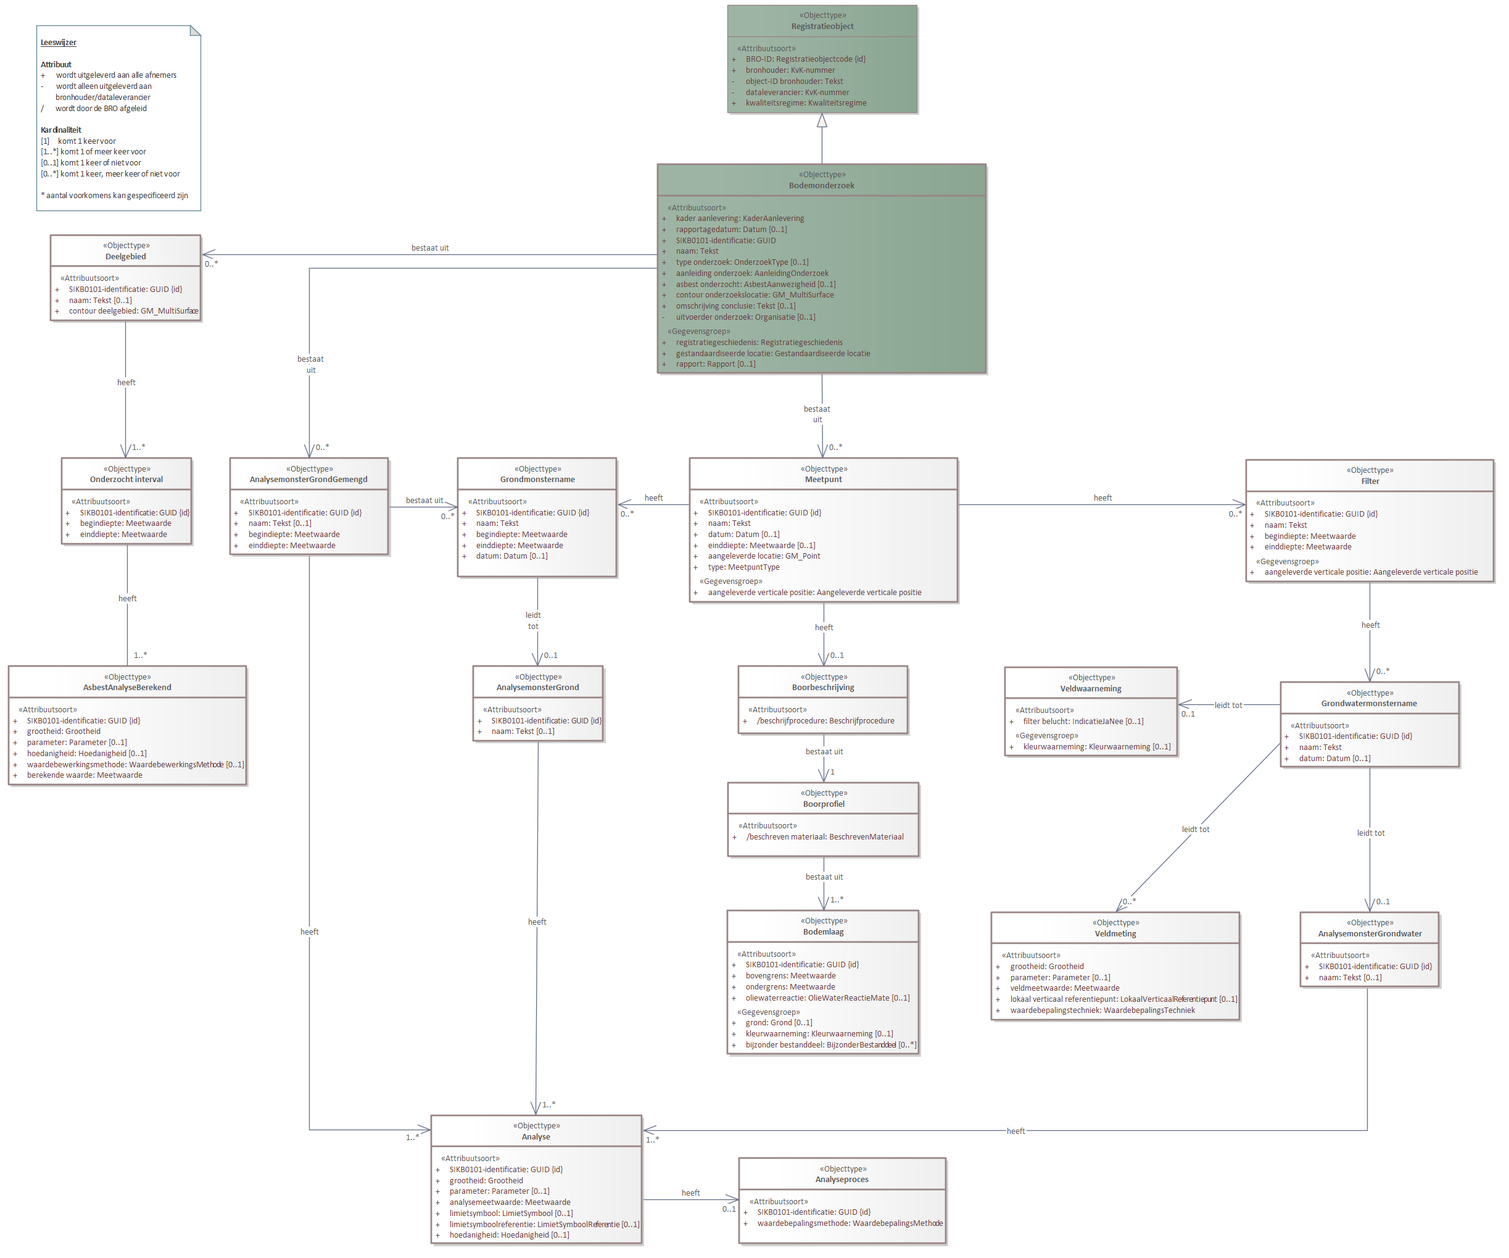
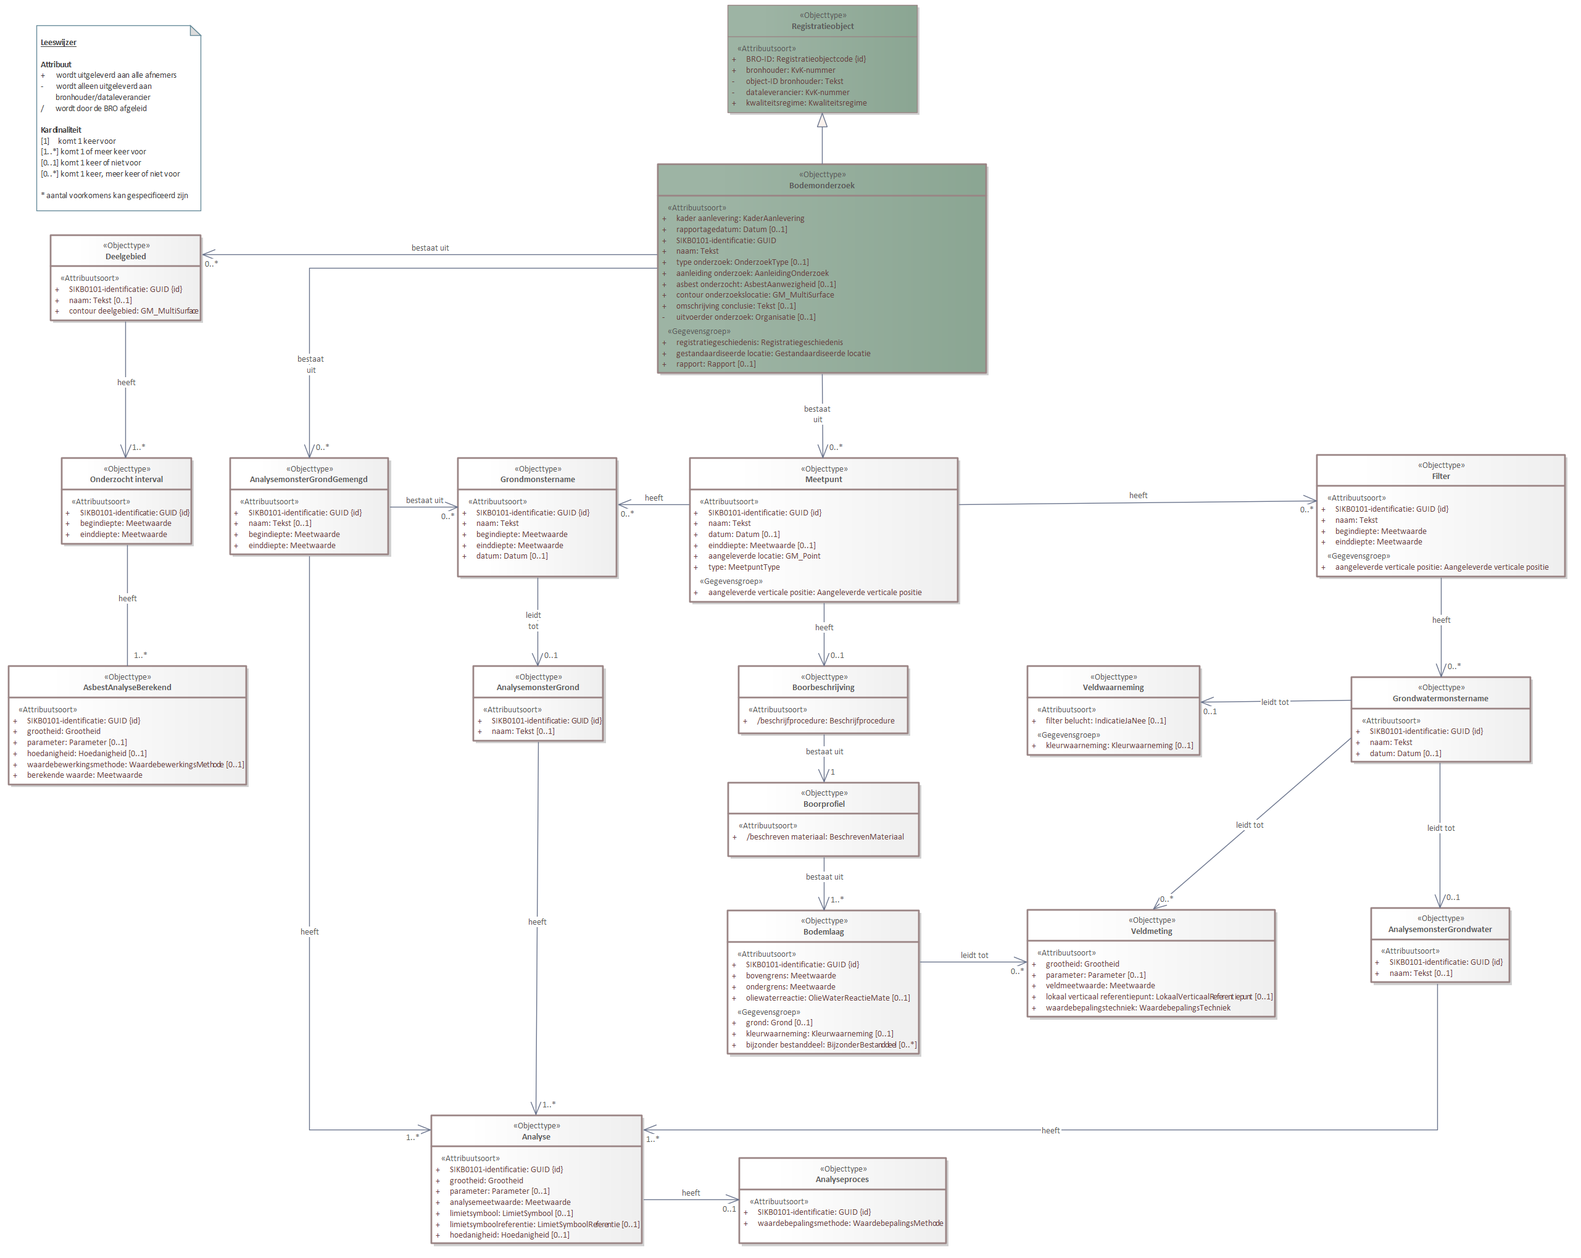
Conceptualmodel-MilieuhygienischbodemonderzoekSAD-0.99-1-20231205-20240109-140355

diff --git a/data/SAD-cat.msword.html b/data/SAD-cat.msword.html
@@ -15,7 +15,7 @@
    <body>
       <p>Conceptual model/Milieuhygienisch bodemonderzoek SAD/20231205</p>
       <p>Imvertor: Nightly-build.13</p>
-      <p>Model release: Conceptualmodel-MilieuhygienischbodemonderzoekSAD-0.99-1-20231205-20240109-124140</p>
+      <p>Model release: Conceptualmodel-MilieuhygienischbodemonderzoekSAD-0.99-1-20231205-20240109-140355</p>
       <hr>
       <section>
          <h1>Artikel 1 Definitie van registratieobject, entiteiten en attributen</h1>
@@ -66,7 +66,7 @@
          <section>
             <h2>Het domeinmodel</h2>
             <section>
-               <div class="imageinfo overview"><img src="Images/EAID_FABA90F8_223C_433d_BAE3_74F87B3DC220.png" usemap="#imagemap-EAID_FABA90F8_223C_433d_BAE3_74F87B3DC220" alt="Diagram &#xA;                        &#xA;                     "><map name="imagemap-EAID_FABA90F8_223C_433d_BAE3_74F87B3DC220"><area shape="rect" alt="AsbestAnalyseBerekend" coords="14,1079,400,1272" href="#global_class_Model_AsbestAnalyseBerekend"><area shape="rect" alt="Onderzocht interval" coords="100,742,311,882" href="#global_class_Model_Onderzochtinterval"><area shape="rect" alt="Deelgebied" coords="82,381,326,520" href="#global_class_Model_Deelgebied"><area shape="rect" alt="Analyseproces" coords="1198,1876,1534,2015" href="#global_class_Model_Analyseproces"><area shape="rect" alt="Analyse" coords="699,1807,1041,2015" href="#global_class_Model_Analyse"><area shape="rect" alt="AnalysemonsterGrondwater" coords="2108,1478,2333,1599" href="#global_class_Model_AnalysemonsterGrondwater"><area shape="rect" alt="AnalysemonsterGrond" coords="767,1079,978,1201" href="#global_class_Model_AnalysemonsterGrond"><area shape="rect" alt="Boorprofiel" coords="1180,1268,1490,1388" href="#global_class_Model_Boorprofiel"><area shape="rect" alt="Boorbeschrijving" coords="1197,1079,1472,1189" href="#global_class_Model_Boorbeschrijving"><area shape="rect" alt="Veldmeting" coords="1607,1478,2010,1653" href="#global_class_Model_Veldmeting"><area shape="rect" alt="Veldwaarneming" coords="1629,1081,1909,1225" href="#global_class_Model_Veldwaarneming"><area shape="rect" alt="AnalysemonsterGrondGemengd" coords="373,742,630,899" href="#global_class_Model_AnalysemonsterGrondGemengd"><area shape="rect" alt="Grondwatermonstername" coords="2076,1105,2366,1243" href="#global_class_Model_Grondwatermonstername"><area shape="rect" alt="Grondmonstername" coords="742,742,1000,935" href="#global_class_Model_Grondmonstername"><area shape="rect" alt="Filter" coords="2020,745,2422,943" href="#global_class_Model_Filter"><area shape="rect" alt="Bodemlaag" coords="1179,1475,1490,1708" href="#global_class_Model_Bodemlaag"><area shape="rect" alt="Meetpunt" coords="1118,742,1553,976" href="#global_class_Model_Meetpunt"><area shape="rect" alt="Registratieobject" coords="1179,8,1487,183" href="#global_class_Model_Registratieobject"><area shape="rect" alt="Bodemonderzoek" coords="1066,266,1599,605" href="#global_class_Model_Bodemonderzoek"></map><p><b>Domeinmodel milieuhygienisch bodemonderzoek</b></p>
+               <div class="imageinfo overview"><img src="Images/EAID_FABA90F8_223C_433d_BAE3_74F87B3DC220.png" usemap="#imagemap-EAID_FABA90F8_223C_433d_BAE3_74F87B3DC220" alt="Diagram &#xA;                        &#xA;                     "><map name="imagemap-EAID_FABA90F8_223C_433d_BAE3_74F87B3DC220"><area shape="rect" alt="AsbestAnalyseBerekend" coords="14,1079,400,1272" href="#global_class_Model_AsbestAnalyseBerekend"><area shape="rect" alt="Onderzocht interval" coords="100,742,311,882" href="#global_class_Model_Onderzochtinterval"><area shape="rect" alt="Deelgebied" coords="82,381,326,520" href="#global_class_Model_Deelgebied"><area shape="rect" alt="Analyseproces" coords="1198,1876,1534,2015" href="#global_class_Model_Analyseproces"><area shape="rect" alt="Analyse" coords="699,1807,1041,2015" href="#global_class_Model_Analyse"><area shape="rect" alt="AnalysemonsterGrondwater" coords="2222,1471,2447,1592" href="#global_class_Model_AnalysemonsterGrondwater"><area shape="rect" alt="AnalysemonsterGrond" coords="767,1079,978,1201" href="#global_class_Model_AnalysemonsterGrond"><area shape="rect" alt="Boorprofiel" coords="1180,1268,1490,1388" href="#global_class_Model_Boorprofiel"><area shape="rect" alt="Boorbeschrijving" coords="1197,1079,1472,1189" href="#global_class_Model_Boorbeschrijving"><area shape="rect" alt="Veldmeting" coords="1665,1474,2067,1648" href="#global_class_Model_Veldmeting"><area shape="rect" alt="Veldwaarneming" coords="1665,1079,1945,1224" href="#global_class_Model_Veldwaarneming"><area shape="rect" alt="AnalysemonsterGrondGemengd" coords="373,742,630,899" href="#global_class_Model_AnalysemonsterGrondGemengd"><area shape="rect" alt="Grondwatermonstername" coords="2190,1097,2481,1235" href="#global_class_Model_Grondwatermonstername"><area shape="rect" alt="Grondmonstername" coords="742,742,1000,935" href="#global_class_Model_Grondmonstername"><area shape="rect" alt="Filter" coords="2134,737,2537,935" href="#global_class_Model_Filter"><area shape="rect" alt="Bodemlaag" coords="1179,1475,1490,1708" href="#global_class_Model_Bodemlaag"><area shape="rect" alt="Meetpunt" coords="1118,742,1553,976" href="#global_class_Model_Meetpunt"><area shape="rect" alt="Registratieobject" coords="1179,8,1487,183" href="#global_class_Model_Registratieobject"><area shape="rect" alt="Bodemonderzoek" coords="1066,266,1599,605" href="#global_class_Model_Bodemonderzoek"></map><p><b>Domeinmodel milieuhygienisch bodemonderzoek</b></p>
                </div>
             </section>
          </section>
@@ -925,7 +925,7 @@
                         </tbody>
                      </table>
                      </section>
-                  <section id="detail_d107192e4870">
+                  <section id="detail_d107499e4870">
                      <h4>  registratiegeschiedenis</h4>
                      <table style="width: 100%;">
                         <colgroup style="width: 30%;"></colgroup>
@@ -972,7 +972,7 @@
                         </tbody>
                      </table>
                   </section>
-                  <section id="detail_d107192e5098">
+                  <section id="detail_d107499e5098">
                      <h4>  gestandaardiseerde locatie</h4>
                      <table style="width: 100%;">
                         <colgroup style="width: 30%;"></colgroup>
@@ -1017,7 +1017,7 @@
                         </tbody>
                      </table>
                   </section>
-                  <section id="detail_d107192e5326">
+                  <section id="detail_d107499e5326">
                      <h4>  rapport</h4>
                      <table style="width: 100%;">
                         <colgroup style="width: 30%;"></colgroup>
@@ -2466,7 +2466,7 @@
                         </tbody>
                      </table>
                      </section>
-                  <section id="detail_d107192e10790">
+                  <section id="detail_d107499e10790">
                      <h4>  aangeleverde verticale positie</h4>
                      <table style="width: 100%;">
                         <colgroup style="width: 30%;"></colgroup>
@@ -3437,7 +3437,7 @@
                         </tbody>
                      </table>
                      </section>
-                  <section id="detail_d107192e13918">
+                  <section id="detail_d107499e14228">
                      <h4>  grond</h4>
                      <table style="width: 100%;">
                         <colgroup style="width: 30%;"></colgroup>
@@ -3480,7 +3480,7 @@
                         </tbody>
                      </table>
                   </section>
-                  <section id="detail_d107192e14150">
+                  <section id="detail_d107499e14460">
                      <h4>  kleurwaarneming</h4>
                      <table style="width: 100%;">
                         <colgroup style="width: 30%;"></colgroup>
@@ -3514,7 +3514,7 @@
                         </tbody>
                      </table>
                   </section>
-                  <section id="detail_d107192e14335">
+                  <section id="detail_d107499e14645">
                      <h4>  bijzonder bestanddeel</h4>
                      <table style="width: 100%;">
                         <colgroup style="width: 30%;"></colgroup>
@@ -3543,6 +3543,52 @@
                               <th>Gegevensgroeptype</th>
                               <td>
                                  <a class="link" href="#global_class_Model_BijzonderBestanddeel">BijzonderBestanddeel</a>
+                                 </td>
+                           </tr>
+                        </tbody>
+                     </table>
+                  </section>
+                  <section id="detail_association_Model_Bodemlaag_Veldmeting">
+                     <h4>  Veldmeting</h4>
+                     <table style="width: 100%;">
+                        <colgroup style="width: 30%;"></colgroup>
+                        <colgroup style="width: 70%;"></colgroup>
+                        <tbody>
+                           <tr>
+                              <th>Type gegeven</th>
+                              <td>Associatie van Bodemlaag</td>
+                           </tr>
+                           <tr>
+                              <th>Definitie</th>
+                              <td>
+                                 
+                                 <p>De uitkomsten van de metingen die in het veld aan of in de grond zijn uitgevoerd.</p>
+                                 </td>
+                           </tr>
+                           <tr>
+                              <th>Juridische status</th>
+                              <td>Authentiek</td>
+                           </tr>
+                           <tr>
+                              <th>Kardinaliteit</th>
+                              <td>0..*</td>
+                           </tr>
+                           <tr>
+                              <th>Relatiesoort naam</th>
+                              <td>leidt tot</td>
+                           </tr>
+                           <tr>
+                              <th>Relatierol naam</th>
+                              <td>Veldmeting</td>
+                           </tr>
+                           <tr>
+                              <th>Bron</th>
+                              <td>Bodemlaag</td>
+                           </tr>
+                           <tr>
+                              <th>Doel</th>
+                              <td>
+                                 Veldmeting
                                  </td>
                            </tr>
                         </tbody>
@@ -5219,7 +5265,7 @@
                         </tbody>
                      </table>
                      </section>
-                  <section id="detail_d107192e20898">
+                  <section id="detail_d107499e21208">
                      <h4>  aangeleverde verticale positie</h4>
                      <table style="width: 100%;">
                         <colgroup style="width: 30%;"></colgroup>
@@ -5681,7 +5727,7 @@
                         </tbody>
                      </table>
                      </section>
-                  <section id="detail_d107192e22663">
+                  <section id="detail_d107499e22973">
                      <h4>  kleurwaarneming</h4>
                      <table style="width: 100%;">
                         <colgroup style="width: 30%;"></colgroup>
@@ -5731,7 +5777,8 @@
                            <th>Definitie</th>
                            <td>
                               
-                              <p>De uitkomsten van de metingen die in het veld aan of in het grondwater zijn uitgevoerd.</p>
+                              <p>De uitkomsten van de metingen die in het veld aan of in de grond of het grondwater
+                                 zijn uitgevoerd.</p>
                               </td>
                         </tr>
                         <tr>

diff --git a/data/SAD-cat.respec.html b/data/SAD-cat.respec.html
@@ -44,7 +44,7 @@
       </section>
    <section>
       <h2>Het domeinmodel   </h2>
-      <div class="imageinfo overview"><img src="data/Images/EAID_FABA90F8_223C_433d_BAE3_74F87B3DC220.png" usemap="#imagemap-EAID_FABA90F8_223C_433d_BAE3_74F87B3DC220" alt="Diagram &#xA;                        &#xA;                     "><map name="imagemap-EAID_FABA90F8_223C_433d_BAE3_74F87B3DC220"><area shape="rect" alt="AsbestAnalyseBerekend" coords="14,1079,400,1272" href="#global_class_Model_AsbestAnalyseBerekend"><area shape="rect" alt="Onderzocht interval" coords="100,742,311,882" href="#global_class_Model_Onderzochtinterval"><area shape="rect" alt="Deelgebied" coords="82,381,326,520" href="#global_class_Model_Deelgebied"><area shape="rect" alt="Analyseproces" coords="1198,1876,1534,2015" href="#global_class_Model_Analyseproces"><area shape="rect" alt="Analyse" coords="699,1807,1041,2015" href="#global_class_Model_Analyse"><area shape="rect" alt="AnalysemonsterGrondwater" coords="2108,1478,2333,1599" href="#global_class_Model_AnalysemonsterGrondwater"><area shape="rect" alt="AnalysemonsterGrond" coords="767,1079,978,1201" href="#global_class_Model_AnalysemonsterGrond"><area shape="rect" alt="Boorprofiel" coords="1180,1268,1490,1388" href="#global_class_Model_Boorprofiel"><area shape="rect" alt="Boorbeschrijving" coords="1197,1079,1472,1189" href="#global_class_Model_Boorbeschrijving"><area shape="rect" alt="Veldmeting" coords="1607,1478,2010,1653" href="#global_class_Model_Veldmeting"><area shape="rect" alt="Veldwaarneming" coords="1629,1081,1909,1225" href="#global_class_Model_Veldwaarneming"><area shape="rect" alt="AnalysemonsterGrondGemengd" coords="373,742,630,899" href="#global_class_Model_AnalysemonsterGrondGemengd"><area shape="rect" alt="Grondwatermonstername" coords="2076,1105,2366,1243" href="#global_class_Model_Grondwatermonstername"><area shape="rect" alt="Grondmonstername" coords="742,742,1000,935" href="#global_class_Model_Grondmonstername"><area shape="rect" alt="Filter" coords="2020,745,2422,943" href="#global_class_Model_Filter"><area shape="rect" alt="Bodemlaag" coords="1179,1475,1490,1708" href="#global_class_Model_Bodemlaag"><area shape="rect" alt="Meetpunt" coords="1118,742,1553,976" href="#global_class_Model_Meetpunt"><area shape="rect" alt="Registratieobject" coords="1179,8,1487,183" href="#global_class_Model_Registratieobject"><area shape="rect" alt="Bodemonderzoek" coords="1066,266,1599,605" href="#global_class_Model_Bodemonderzoek"></map><p><b>Domeinmodel milieuhygienisch bodemonderzoek</b></p>
+      <div class="imageinfo overview"><img src="data/Images/EAID_FABA90F8_223C_433d_BAE3_74F87B3DC220.png" usemap="#imagemap-EAID_FABA90F8_223C_433d_BAE3_74F87B3DC220" alt="Diagram &#xA;                        &#xA;                     "><map name="imagemap-EAID_FABA90F8_223C_433d_BAE3_74F87B3DC220"><area shape="rect" alt="AsbestAnalyseBerekend" coords="14,1079,400,1272" href="#global_class_Model_AsbestAnalyseBerekend"><area shape="rect" alt="Onderzocht interval" coords="100,742,311,882" href="#global_class_Model_Onderzochtinterval"><area shape="rect" alt="Deelgebied" coords="82,381,326,520" href="#global_class_Model_Deelgebied"><area shape="rect" alt="Analyseproces" coords="1198,1876,1534,2015" href="#global_class_Model_Analyseproces"><area shape="rect" alt="Analyse" coords="699,1807,1041,2015" href="#global_class_Model_Analyse"><area shape="rect" alt="AnalysemonsterGrondwater" coords="2222,1471,2447,1592" href="#global_class_Model_AnalysemonsterGrondwater"><area shape="rect" alt="AnalysemonsterGrond" coords="767,1079,978,1201" href="#global_class_Model_AnalysemonsterGrond"><area shape="rect" alt="Boorprofiel" coords="1180,1268,1490,1388" href="#global_class_Model_Boorprofiel"><area shape="rect" alt="Boorbeschrijving" coords="1197,1079,1472,1189" href="#global_class_Model_Boorbeschrijving"><area shape="rect" alt="Veldmeting" coords="1665,1474,2067,1648" href="#global_class_Model_Veldmeting"><area shape="rect" alt="Veldwaarneming" coords="1665,1079,1945,1224" href="#global_class_Model_Veldwaarneming"><area shape="rect" alt="AnalysemonsterGrondGemengd" coords="373,742,630,899" href="#global_class_Model_AnalysemonsterGrondGemengd"><area shape="rect" alt="Grondwatermonstername" coords="2190,1097,2481,1235" href="#global_class_Model_Grondwatermonstername"><area shape="rect" alt="Grondmonstername" coords="742,742,1000,935" href="#global_class_Model_Grondmonstername"><area shape="rect" alt="Filter" coords="2134,737,2537,935" href="#global_class_Model_Filter"><area shape="rect" alt="Bodemlaag" coords="1179,1475,1490,1708" href="#global_class_Model_Bodemlaag"><area shape="rect" alt="Meetpunt" coords="1118,742,1553,976" href="#global_class_Model_Meetpunt"><area shape="rect" alt="Registratieobject" coords="1179,8,1487,183" href="#global_class_Model_Registratieobject"><area shape="rect" alt="Bodemonderzoek" coords="1066,266,1599,605" href="#global_class_Model_Bodemonderzoek"></map><p><b>Domeinmodel milieuhygienisch bodemonderzoek</b></p>
       </div>
    </section>
    <section>
@@ -901,7 +901,7 @@
                </tbody>
             </table>
             </section>
-         <section id="detail_d107192e4870">
+         <section id="detail_d107499e4870">
             <h4>  registratiegeschiedenis</h4>
             <table style="width: 100%;">
                <colgroup style="width: 30%;"></colgroup>
@@ -948,7 +948,7 @@
                </tbody>
             </table>
          </section>
-         <section id="detail_d107192e5098">
+         <section id="detail_d107499e5098">
             <h4>  gestandaardiseerde locatie</h4>
             <table style="width: 100%;">
                <colgroup style="width: 30%;"></colgroup>
@@ -993,7 +993,7 @@
                </tbody>
             </table>
          </section>
-         <section id="detail_d107192e5326">
+         <section id="detail_d107499e5326">
             <h4>  rapport</h4>
             <table style="width: 100%;">
                <colgroup style="width: 30%;"></colgroup>
@@ -2442,7 +2442,7 @@
                </tbody>
             </table>
             </section>
-         <section id="detail_d107192e10790">
+         <section id="detail_d107499e10790">
             <h4>  aangeleverde verticale positie</h4>
             <table style="width: 100%;">
                <colgroup style="width: 30%;"></colgroup>
@@ -3413,7 +3413,7 @@
                </tbody>
             </table>
             </section>
-         <section id="detail_d107192e13918">
+         <section id="detail_d107499e14228">
             <h4>  grond</h4>
             <table style="width: 100%;">
                <colgroup style="width: 30%;"></colgroup>
@@ -3456,7 +3456,7 @@
                </tbody>
             </table>
          </section>
-         <section id="detail_d107192e14150">
+         <section id="detail_d107499e14460">
             <h4>  kleurwaarneming</h4>
             <table style="width: 100%;">
                <colgroup style="width: 30%;"></colgroup>
@@ -3490,7 +3490,7 @@
                </tbody>
             </table>
          </section>
-         <section id="detail_d107192e14335">
+         <section id="detail_d107499e14645">
             <h4>  bijzonder bestanddeel</h4>
             <table style="width: 100%;">
                <colgroup style="width: 30%;"></colgroup>
@@ -3519,6 +3519,52 @@
                      <th>Gegevensgroeptype</th>
                      <td>
                         <a class="link" href="#global_class_Model_BijzonderBestanddeel">BijzonderBestanddeel</a>
+                        </td>
+                  </tr>
+               </tbody>
+            </table>
+         </section>
+         <section id="detail_association_Model_Bodemlaag_Veldmeting">
+            <h4>  Veldmeting</h4>
+            <table style="width: 100%;">
+               <colgroup style="width: 30%;"></colgroup>
+               <colgroup style="width: 70%;"></colgroup>
+               <tbody>
+                  <tr>
+                     <th>Type gegeven</th>
+                     <td>Associatie van Bodemlaag</td>
+                  </tr>
+                  <tr>
+                     <th>Definitie</th>
+                     <td>
+                        
+                        <p>De uitkomsten van de metingen die in het veld aan of in de grond zijn uitgevoerd.</p>
+                        </td>
+                  </tr>
+                  <tr>
+                     <th>Juridische status</th>
+                     <td>Authentiek</td>
+                  </tr>
+                  <tr>
+                     <th>Kardinaliteit</th>
+                     <td>0..*</td>
+                  </tr>
+                  <tr>
+                     <th>Relatiesoort naam</th>
+                     <td>leidt tot</td>
+                  </tr>
+                  <tr>
+                     <th>Relatierol naam</th>
+                     <td>Veldmeting</td>
+                  </tr>
+                  <tr>
+                     <th>Bron</th>
+                     <td>Bodemlaag</td>
+                  </tr>
+                  <tr>
+                     <th>Doel</th>
+                     <td>
+                        Veldmeting
                         </td>
                   </tr>
                </tbody>
@@ -5195,7 +5241,7 @@
                </tbody>
             </table>
             </section>
-         <section id="detail_d107192e20898">
+         <section id="detail_d107499e21208">
             <h4>  aangeleverde verticale positie</h4>
             <table style="width: 100%;">
                <colgroup style="width: 30%;"></colgroup>
@@ -5657,7 +5703,7 @@
                </tbody>
             </table>
             </section>
-         <section id="detail_d107192e22663">
+         <section id="detail_d107499e22973">
             <h4>  kleurwaarneming</h4>
             <table style="width: 100%;">
                <colgroup style="width: 30%;"></colgroup>
@@ -5707,7 +5753,8 @@
                   <th>Definitie</th>
                   <td>
                      
-                     <p>De uitkomsten van de metingen die in het veld aan of in het grondwater zijn uitgevoerd.</p>
+                     <p>De uitkomsten van de metingen die in het veld aan of in de grond of het grondwater
+                        zijn uitgevoerd.</p>
                      </td>
                </tr>
                <tr>
